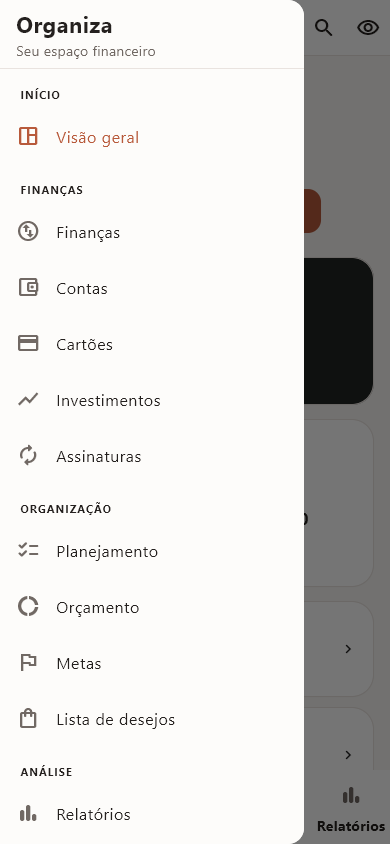
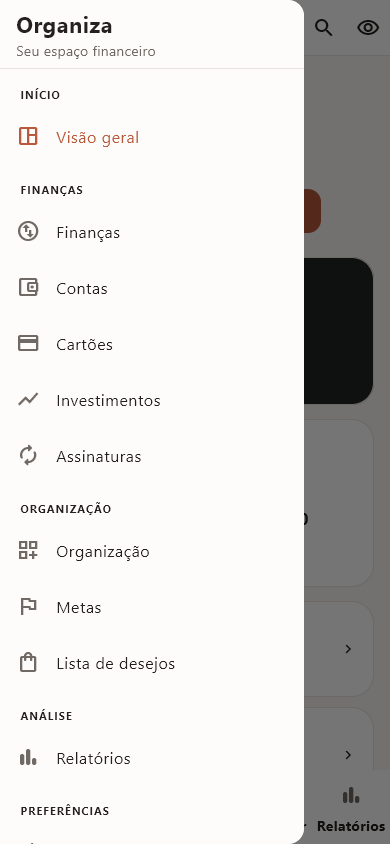
fix: unify planning and budget navigation

diff --git a/lib/presentation/organiza_app.dart b/lib/presentation/organiza_app.dart
@@ -91,7 +91,7 @@ class _OrganizaShellState extends State<OrganizaShell> {
     _PageDefinition('Cartões', Icons.credit_card_outlined),
     _PageDefinition('Orçamento', Icons.donut_large_outlined),
     _PageDefinition('Investimentos', Icons.show_chart_outlined),
-    _PageDefinition('Planejamento', Icons.checklist_rounded),
+    _PageDefinition('Organização', Icons.dashboard_customize_outlined),
     _PageDefinition('Metas', Icons.flag_outlined),
     _PageDefinition('Relatórios', Icons.bar_chart_rounded),
     _PageDefinition('Configurações', Icons.tune_rounded),
@@ -272,7 +272,7 @@ class _OrganizaShellState extends State<OrganizaShell> {
                   child: ListView(children: [
                 _mobileDrawerSection('INÍCIO', [0]),
                 _mobileDrawerSection('FINANÇAS', [1, 2, 3, 5, 10]),
-                _mobileDrawerSection('ORGANIZAÇÃO', [6, 4, 7, 11]),
+                _mobileDrawerSection('ORGANIZAÇÃO', [6, 7, 11]),
                 _mobileDrawerSection('ANÁLISE', [8]),
                 _mobileDrawerSection('PREFERÊNCIAS', [9]),
               ])),
@@ -331,7 +331,7 @@ class _OrganizaShellState extends State<OrganizaShell> {
   String _mobileNavLabel(int page) => switch (page) {
         0 => 'Início',
         5 => 'Investir',
-        6 => 'Planejar',
+        6 => 'Organizar',
         11 => 'Desejos',
         _ => _pages[page].label,
       };
@@ -364,7 +364,7 @@ class _OrganizaShellState extends State<OrganizaShell> {
             onNewTask: _openTaskDialog,
             onDeleteTask: _deleteTask,
             onOpenCards: () => setState(() => _page = 3),
-            onOpenBudgets: () => setState(() => _page = 4),
+            onOpenBudgets: () => setState(() => _page = 6),
             onOpenSubscriptions: () => setState(() => _page = 10),
             onOpenTransactions: () => setState(() => _page = 1),
             onNewAccount: _openAccountDialog,
@@ -1013,7 +1013,7 @@ class _Sidebar extends StatelessWidget {
                 _label('FINANÇAS'),
                 _section(context, [1, 2, 3, 5, 10]),
                 _label('ORGANIZAÇÃO'),
-                _section(context, [6, 4, 7, 11]),
+                _section(context, [6, 7, 11]),
                 _label('ANÁLISE'),
                 _section(context, [8]),
               ])),
@@ -1363,7 +1363,7 @@ class _SearchDialogState extends State<_SearchDialog> {
     for (final budget in widget.store.budgets) {
       if (budget.category.toLowerCase().contains(_query)) {
         results.add(_SearchResult(Icons.track_changes_rounded, budget.category,
-            'Orçamento mensal', 4));
+            'Orçamento mensal', 6));
       }
     }
     for (final goal in widget.store.financialGoals) {

diff --git a/integration_test/first_use_flow_test.dart b/integration_test/first_use_flow_test.dart
@@ -164,7 +164,7 @@ void main() {
       File('${output.path}/organiza-investments.png'),
     );
 
-    await tester.tap(find.text('Orçamento').first);
+    await tester.tap(find.text('Organização').first);
     await tester.pumpAndSettle();
     expect(find.text('Planejamento e orçamento'), findsOneWidget);
     expect(find.text('Alimentação'), findsWidgets);
@@ -264,7 +264,7 @@ void main() {
     await tester.pumpAndSettle();
     expect(store.subscriptions.single.isActive, isTrue);
 
-    await tester.tap(find.text('Planejamento').first);
+    await tester.tap(find.text('Organização').first);
     await tester.pumpAndSettle();
     expect(find.text('Salário identificado no mês'), findsOneWidget);
     expect(find.text('Distribuição sugerida'), findsOneWidget);
@@ -361,7 +361,7 @@ void main() {
     await tester.tap(find.byTooltip('Abrir navegação'));
     await tester.pumpAndSettle();
     expect(find.text('ORGANIZAÇÃO'), findsOneWidget);
-    expect(find.text('Orçamento'), findsOneWidget);
+    expect(find.text('Organização'), findsOneWidget);
     await _saveScreenshot(
         screenshotKey, File('${output.path}/organiza-mobile-drawer.png'));
     await tester.tap(find.descendant(

diff --git a/lib/database/app_database.dart b/lib/database/app_database.dart
@@ -628,11 +628,19 @@ class AppDatabase {
         (rows.first['value'] as String).split(',').map(int.tryParse).toList();
     if (parsed.length != 4 ||
         parsed.contains(null) ||
-        parsed.toSet().length != 4 ||
         parsed.any((value) => value! < 0 || value > 11 || value == 9)) {
       return [0, 1, 6, 8];
     }
-    return parsed.cast<int>();
+    final normalized = <int>[];
+    for (final page in parsed.cast<int>()) {
+      final mapped = page == 4 ? 6 : page;
+      if (!normalized.contains(mapped)) normalized.add(mapped);
+    }
+    for (final fallback in [0, 1, 6, 8]) {
+      if (normalized.length == 4) break;
+      if (!normalized.contains(fallback)) normalized.add(fallback);
+    }
+    return normalized;
   }
 
   String? loadPreference(String key) {

diff --git a/lib/application/organiza_store.dart b/lib/application/organiza_store.dart
@@ -653,12 +653,13 @@ class OrganizaStore extends ChangeNotifier {
   }
 
   void updateMobileQuickPages(List<int> pages) {
-    if (pages.length != 4 ||
-        pages.toSet().length != 4 ||
-        pages.any((item) => item < 0 || item > 11 || item == 9)) {
+    final normalized = pages.map((item) => item == 4 ? 6 : item).toList();
+    if (normalized.length != 4 ||
+        normalized.toSet().length != 4 ||
+        normalized.any((item) => item < 0 || item > 11 || item == 9)) {
       throw ArgumentError('Escolha quatro atalhos diferentes.');
     }
-    _repository.saveMobileQuickPages(pages);
+    _repository.saveMobileQuickPages(normalized);
     reload();
   }
 

diff --git a/test/mobile_layout_test.dart b/test/mobile_layout_test.dart
@@ -48,7 +48,7 @@ void main() {
     for (final label in [
       'Contas',
       'Cartões',
-      'Orçamento',
+      'Organização',
       'Investimentos',
       'Metas',
       'Configurações',
@@ -87,7 +87,7 @@ void main() {
       }
     }
 
-    for (final label in ['Finanças', 'Planejar', 'Relatórios']) {
+    for (final label in ['Finanças', 'Organizar', 'Relatórios']) {
       await tester.tap(find.descendant(
           of: find.byType(NavigationBar), matching: find.text(label)));
       await tester.pumpAndSettle();

diff --git a/test/store_actions_test.dart b/test/store_actions_test.dart
@@ -66,7 +66,7 @@ void main() {
     expect(store.balance, 15000);
     expect(store.transactions.length, 1);
     store.updateMobileQuickPages([0, 1, 4, 7]);
-    expect(store.mobileQuickPages, [0, 1, 4, 7]);
+    expect(store.mobileQuickPages, [0, 1, 6, 7]);
   });
 
   test('assinatura pode ser editada, pausada e reativada', () {

diff --git a/lib/presentation/basic_pages.dart b/lib/presentation/basic_pages.dart
@@ -924,9 +924,8 @@ class SettingsPage extends StatelessWidget {
     1: 'Finanças',
     2: 'Contas',
     3: 'Cartões',
-    4: 'Orçamento',
     5: 'Investimentos',
-    6: 'Planejamento',
+    6: 'Organização',
     7: 'Metas',
     8: 'Relatórios',
     10: 'Assinaturas',

diff --git a/README.md b/README.md
@@ -14,7 +14,7 @@
   <img alt="Windows" src="https://img.shields.io/badge/Windows-10%2F11-0078D4?logo=windows11&logoColor=white">
   <img alt="Android" src="https://img.shields.io/badge/Android-APK-3DDC84?logo=android&logoColor=white">
   <img alt="SQLite" src="https://img.shields.io/badge/SQLite-local-003B57?logo=sqlite&logoColor=white">
-  <img alt="Versão" src="https://img.shields.io/badge/versao-0.7.0-B85A3B">
+  <img alt="Versão" src="https://img.shields.io/badge/versao-0.7.1-B85A3B">
   <img alt="Desenvolvido com apoio de IA" src="https://img.shields.io/badge/desenvolvimento-assistido%20por%20IA-6E56CF?logo=openai&logoColor=white">
 </p>
 
@@ -29,8 +29,9 @@ O **Organiza** reúne contas, lançamentos, cartões, orçamentos, assinaturas, 
 
 ## ✨ Destaques
 
-### Novo na versão 0.7.0
+### Novo na versão 0.7.1
 
+- **Organização sem duplicidade:** Planejamento e Orçamento agora usam um único acesso, **Organização**, no menu do desktop e do celular. Atalhos antigos de orçamento são convertidos automaticamente para a área unificada.
 - **Visão geral orientada à ação:** evolução interativa de seis meses, pendências ordenadas por vencimento, previsão de fechamento e categorias próximas do limite.
 - **Pagamentos com controle:** confirmação de pagamento/recebimento com opção de desfazer; edição de valor e descrição de uma ocorrência sem recriar o lançamento.
 - **Histórico contextual:** filtros de mês, conta, tipo, status e texto; ordenação por data ou valor; os totais acompanham os filtros e consideram apenas valores confirmados.
@@ -114,13 +115,13 @@ O **Organiza** reúne contas, lançamentos, cartões, orçamentos, assinaturas, 
 
 ### ✅ Android: instalar o aplicativo
 
-[Baixe o APK Android 0.7.0](https://github.com/danielcdesk/Organiza/releases/download/v0.7.0/Organiza-Android-0.7.0.apk), copie-o para o celular e abra-o pelo gerenciador de arquivos. O Android pode pedir autorização para instalar apps dessa origem. Após a instalação, abra **Organiza**; não é necessário criar conta nem ter internet. Atualizações usam a mesma chave de release.
+[Baixe o APK Android 0.7.1](https://github.com/danielcdesk/Organiza/releases/download/v0.7.1/Organiza-Android-0.7.1.apk), copie-o para o celular e abra-o pelo gerenciador de arquivos. O Android pode pedir autorização para instalar apps dessa origem. Após a instalação, abra **Organiza**; não é necessário criar conta nem ter internet. Atualizações usam a mesma chave de release.
 
 O APK contém todos os módulos, com menu lateral dividido por áreas, quatro atalhos configuráveis em Configurações e botão central de nova transação. Esta versão foi compilada para Android; **não há pacote iOS**, pois a compilação e assinatura para iPhone exigem macOS e a toolchain da Apple.
 
 ### ✅ Windows: baixar e executar
 
-[Baixe o pacote Windows 0.7.0](https://github.com/danielcdesk/Organiza/releases/download/v0.7.0/Organiza-Windows-0.7.0.zip), extraia a pasta inteira e abra `organiza.exe`. Não mova apenas o executável: os arquivos distribuídos ao lado dele são necessários.
+[Baixe o pacote Windows 0.7.1](https://github.com/danielcdesk/Organiza/releases/download/v0.7.1/Organiza-Windows-0.7.1.zip), extraia a pasta inteira e abra `organiza.exe`. Não mova apenas o executável: os arquivos distribuídos ao lado dele são necessários.
 
 ### ✅ Requisitos para desenvolver
 
@@ -158,11 +159,11 @@ flutter test
 flutter test integration_test -d windows
 ```
 
-Na versão 0.7.0, a previsão do dashboard usa o saldo atual e as receitas/despesas pendentes registradas até o fim do mês, incluindo atrasos. Transferências não alteram a previsão consolidada. Assinaturas, faturas e salários ainda não lançados não entram nesse cálculo. A edição de lançamentos altera somente a ocorrência selecionada, preservando as próximas parcelas e recorrências.
+Na versão 0.7.1, a previsão do dashboard usa o saldo atual e as receitas/despesas pendentes registradas até o fim do mês, incluindo atrasos. Transferências não alteram a previsão consolidada. Assinaturas, faturas e salários ainda não lançados não entram nesse cálculo. A edição de lançamentos altera somente a ocorrência selecionada, preservando as próximas parcelas e recorrências.
 
 A taxa de investimento informada pelo usuário continua separada da variação acumulada simples. Não há crédito automático de rendimentos ou consulta de cotações. O salário recorrente gera uma ocorrência pendente no dia cadastrado, para confirmação manual.
 
-Validação da versão 0.7.0: análise estática e **41 testes Flutter** aprovados, cobrindo previsão, edição, desfazer, filtros, preferências, migrações e navegação móvel. Consulte as [notas da versão](docs/releases/v0.7.0.md) para evidências dos pacotes. A validação do layout compacto no Windows não substitui instalação e teste em Android físico.
+Validação da versão 0.7.1: análise estática, **41 testes Flutter** e os dois fluxos de integração Windows aprovados, cobrindo a área unificada, previsão, edição, desfazer, filtros, preferências, migrações e navegação móvel. Consulte as [notas da versão](docs/releases/v0.7.1.md) para evidências dos pacotes. A validação do layout compacto no Windows não substitui instalação e teste em Android físico.
 
 Consulte o [estado conhecido como bom](docs/known_good_state.md) e a [estratégia de testes](docs/testing_strategy.md) para os contratos de regressão.
 

diff --git a/docs/releases/v0.7.1.md b/docs/releases/v0.7.1.md
@@ -1,0 +1,28 @@
+# Organiza 0.7.1 - Organização unificada
+
+## Correção
+
+- Planejamento e Orçamento deixam de aparecer como módulos paralelos no menu.
+- Desktop e celular passam a exibir um único acesso: **Organização**.
+- O acesso abre a tela já existente de Planejamento e orçamento, sem alterar limites, tarefas, salário programado ou dados locais.
+- A busca do aplicativo direciona resultados de orçamento para Organização.
+- Atalhos rápidos móveis salvos com o antigo item Orçamento são convertidos para Organização; os demais atalhos são preservados.
+
+## Verificação
+
+- `flutter analyze --no-pub` sem problemas.
+- 41 testes Flutter aprovados, incluindo navegação móvel e a conversão do atalho antigo.
+- Dois fluxos de integração Windows aprovados em 1366×768 e 390×844; a captura do menu móvel foi atualizada.
+- O APK declara `versionName 0.7.1` e `versionCode 10`, com assinatura APK v2 válida e chave RSA de 3072 bits.
+- O ZIP Windows foi inspecionado e contém `organiza.exe`, `flutter_windows.dll` e `sqlite3.dll`.
+
+## Pacotes publicados
+
+| Plataforma | Arquivo | SHA-256 |
+| --- | --- | --- |
[2 lines of base64/hex data omitted]
+
+O layout móvel foi validado em viewport compacto no Windows. A instalação em aparelho Android físico não foi validada nesta sessão.
+
+Projeto desenvolvido com apoio de IA, conforme a transparência descrita no README.

diff --git a/docs/known_good_state.md b/docs/known_good_state.md
@@ -1,5 +1,14 @@
 # Estado conhecido como bom
 
+## 2026-09-18 — Organiza 0.7.1
+
+- Planejamento e Orçamento têm um único ponto de entrada, Organização, tanto na barra lateral desktop quanto no menu móvel.
+- Resultados de busca e atalhos rápidos usam a área unificada; um atalho antigo de Orçamento é convertido automaticamente e sem duplicar os demais atalhos.
+- `flutter analyze --no-pub`, 41 testes Flutter e dois fluxos de integração Windows foram aprovados.
[1 lines of base64/hex data omitted]
+
+Pacotes e verificações de distribuição: [notas 0.7.1](releases/v0.7.1.md).
+
 ## 2026-09-17 — Organiza 0.7.0
 
 - Análise estática sem problemas e 41 testes Flutter aprovados.

diff --git a/docs/change_log.md b/docs/change_log.md
@@ -1,5 +1,11 @@
 # Registro de mudanças
 
+## 2026-09-18 — Organiza 0.7.1, navegação de Organização unificada
+
+- Orçamento deixou de ser um item paralelo no menu. Planejamento e limites mensais agora têm um único acesso: **Organização**.
+- O mesmo agrupamento foi aplicado ao menu lateral do celular, à navegação desktop, aos resultados de busca e aos atalhos rápidos configuráveis.
+- Preferências móveis salvas com o antigo atalho Orçamento são convertidas automaticamente para Organização, sem apagar os demais atalhos.
+
 ## 2026-09-17 — Organiza 0.7.0, rotina financeira e experiência revisada
 
 - Dashboard reorganizado com saldo confirmado, evolução interativa de seis meses, lista de pendências e previsão de fechamento.

diff --git a/docs/README.md b/docs/README.md
@@ -19,6 +19,7 @@ Este diretório concentra as decisões de produto, regras financeiras, qualidade
 
 ## Releases
 
+- [Organiza 0.7.1](releases/v0.7.1.md)
 - [Organiza 0.7.0](releases/v0.7.0.md)
 - [Organiza 0.6.1](releases/v0.6.1.md)
 - [Organiza 0.6.0](releases/v0.6.0.md)
